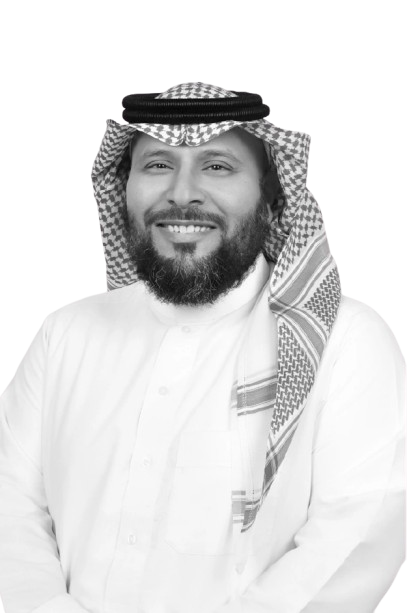
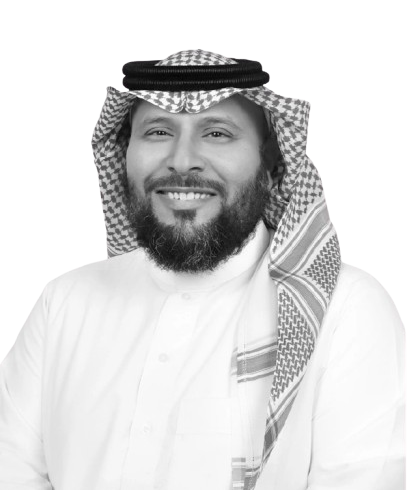
new chages

diff --git a/ui/main/speakers/SpeakersSection.tsx b/ui/main/speakers/SpeakersSection.tsx
@@ -17,6 +17,7 @@ const profiles = [
     image: "/images/speakers/img1.png",
     linkedIn: "#",
     marginTP: 0,
+    fit: "cover",
   },
   {
     name: "Ismail A. Almakrami",
@@ -26,6 +27,7 @@ const profiles = [
     image: "/images/speakers/img2.png",
     linkedIn: "#",
     marginTP: 0,
+    fit: "cover",
   },
   {
     name: "Muqbil Almuqbil",
@@ -45,6 +47,7 @@ const profiles = [
     image: "/images/speakers/img4.png",
     linkedIn: "#",
     marginTP: 0,
+    fit: "cover",
   },
 ];
 
@@ -58,6 +61,7 @@ const profilesTwo = [
     image: "/images/speakers/img5.png",
     linkedIn: "#",
     marginTP: 0,
+    fit: "cover",
   },
   {
     name: "Ghadah Almalki",
@@ -67,6 +71,7 @@ const profilesTwo = [
     image: "/images/speakers/img6.png", // Add correct paths to images
     linkedIn: "#", // Replace with actual LinkedIn profile links
     marginTP: 0,
+    fit: "cover",
   },
   {
     name: "Mushtaq Khan",
@@ -76,6 +81,7 @@ const profilesTwo = [
     image: "/images/speakers/img7.png",
     linkedIn: "#",
     marginTP: 0,
+    fit: "cover",
   },
   {
     name: "Sivakumar Seshadri",
@@ -85,6 +91,7 @@ const profilesTwo = [
     image: "/images/speakers/img8.png",
     linkedIn: "#",
     marginTP: 0,
+    fit: "cover",
   },
 ];
 
@@ -105,7 +112,8 @@ const profilesThree = [
     organization: "OMAN",
     image: "/images/speakers/img10.png",
     linkedIn: "#",
-    marginTP: 10,
+    marginTP: 0,
+    fit: "cover",
   },
   {
     name: "Nawaf Alghamdi",
@@ -116,6 +124,7 @@ const profilesThree = [
     image: "/images/speakers/img11.png",
     linkedIn: "#",
     marginTP: 0,
+    fit: "cover",
   },
   {
     name: "Dr. Mohammed Al Dighriri",
@@ -124,7 +133,8 @@ const profilesThree = [
     organization: "OMAN",
     image: "/images/speakers/speaker33.png",
     linkedIn: "#",
-    marginTP: 10,
+    marginTP: 0,
+    fit: "cover",
   },
 ];
 
@@ -146,6 +156,7 @@ const profilesFour = [
     image: "/images/speakers/speaker32.png",
     linkedIn: "#",
     marginTP: 0,
+    fit: "cover",
   },
   {
     name: "Filip Nekvinda",
@@ -164,6 +175,16 @@ const profilesFour = [
     image: "/images/speakers/speaker34.png",
     linkedIn: "#",
     marginTP: 0,
+  },
+  {
+    name: "Abbasi Poonawala",
+    title: "Executive Director Enterprise Architecture",
+    company: "Alinma Bank",
+    organization: "OMAN",
+    image: "/images/speakers/speaker35.png",
+    linkedIn: "#",
+    marginTP: 0,
+    fit: "cover",
   },
 ];
 

diff --git a/ui/sub/index/speakers/SpeakersCardComp.tsx b/ui/sub/index/speakers/SpeakersCardComp.tsx
@@ -17,8 +17,8 @@ const ProfileCard: React.FC<any> = ({ item, index }) => {
         <img
           src={item.image}
           alt={item.name}
-          className={`w-full h-64 object-cover pt-${item.marginTP}`}
-          style={{ objectFit: "contain", maxHeight: "250px" }}
+          className={`w-full h-64 pt-${item?.marginTP} object-${item?.fit || "contain"}`}
+          // style={{ objectFit: "contain", maxHeight: "250px" }}
         />
       </div>
       <div className="p-4 flex flex-col items-center text-center">
